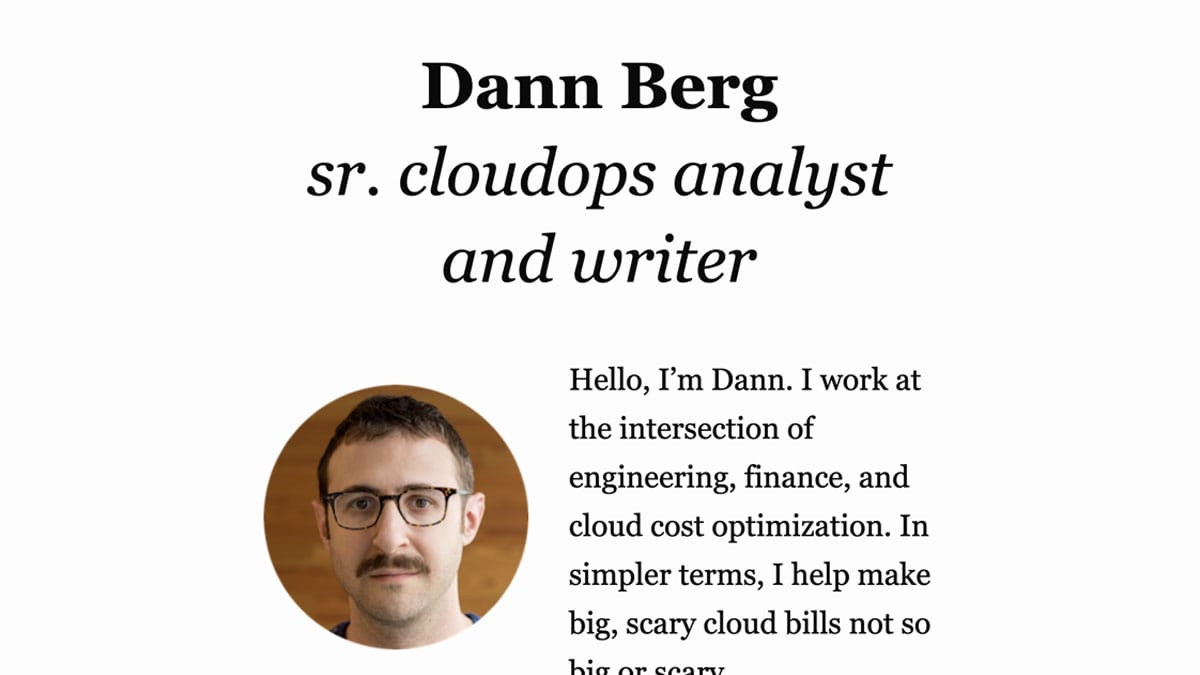
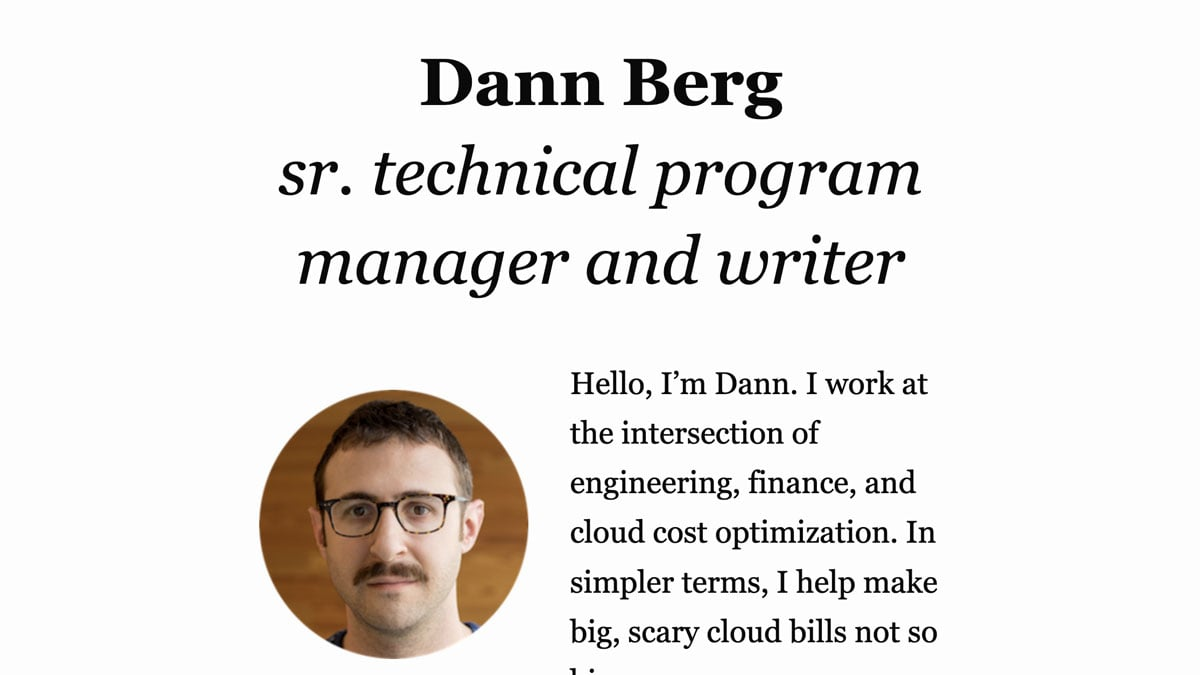
update website to reflect new FullStory role

diff --git a/layouts/shortcodes/blog-header.html b/layouts/shortcodes/blog-header.html
@@ -1,5 +1,5 @@
 <span class="center">
     <h1>Dann Berg<br />
-        <em class="normal">sr. cloudops analyst<br />and writer</em>
+        <em class="normal">sr. technical program<br />manager and writer</em>
     </h1>
 </span>

diff --git a/content/about.md b/content/about.md
@@ -6,7 +6,7 @@ description: "Dann Berg is the person who made this website. He's in New York Ci
 
 **Hello.** I am {{< dann >}} and this is my website. It hosts all my writing on technology, finance, productivity, entrepreneurship, writing, and more. It also serves as a centralized hub to link together my creative output.
 
-I am a Senior CloudOps Analyst working at **[Datadog](https://www.datadoghq.com/)** in New York City (see disclosure below). I'm part of an engineering team focusing on Cloud Cost Optimization (a field that is starting to be known as **[FinOps](https://www.finops.org/)**). We bring visibility, understanding, and cost-optimization to cloud bills. I also organize the **[NYC FinOps Meetup](https://www.meetup.com/New-York-City-Cloud-FinOps/)**.
+I am a _Senior Technical Program Manager for FinOps_ working remote at **[FullStory](https://www.fullstory.com/)** from New York City (see disclosure below). Before that, I was a _Senior FinOps Analyst_ at **[Datadog](https://www.datadoghq.com)**. FinOps, for those unfamiliar, is a burgeoning new engineering discipline helping organizations get maximum business value by leveraging the variable spend model of the cloud (learn more at **[FinOps.org](https://www.finops.org/)**). I'm also active in the wider FinOps community, and run the monthly **[NYC FinOps Meetup](https://www.meetup.com/New-York-City-Cloud-FinOps/)**.
 
 In my free time, I'm an **[slow-but-steady reader](https://www.goodreads.com/dannb)** and an **[avid watcher of movies](https://letterboxd.com/dannb/)**. I also enjoy video games (_Binding of Isaac_, _Stardew Valley_, _Forager_) and board games (_Terraforming Mars_, _Codenames_, _Coup_).
 

diff --git a/content/_index.md b/content/_index.md
@@ -1,7 +1,7 @@
 ---
 title: "Dann Berg: blog, newsletter, shop, and more"
 date: 2020-05-01T08:03:56-04:00
-description: "Hello, I'm Dann. I'm a Senior CloudOps Analyst at Datadog and writer of blogs and plays on the side. Here be thoughts on finops, technology, productivity, & more."
+description: "Hello, I'm Dann. I'm a Senior Technical Program Manager (FinOps) at FullStory and writer of blogs and plays on the side. Here be thoughts on finops, technology, productivity, & more."
 ---
 
 <!-- Text for the header is in the shortcode -->
